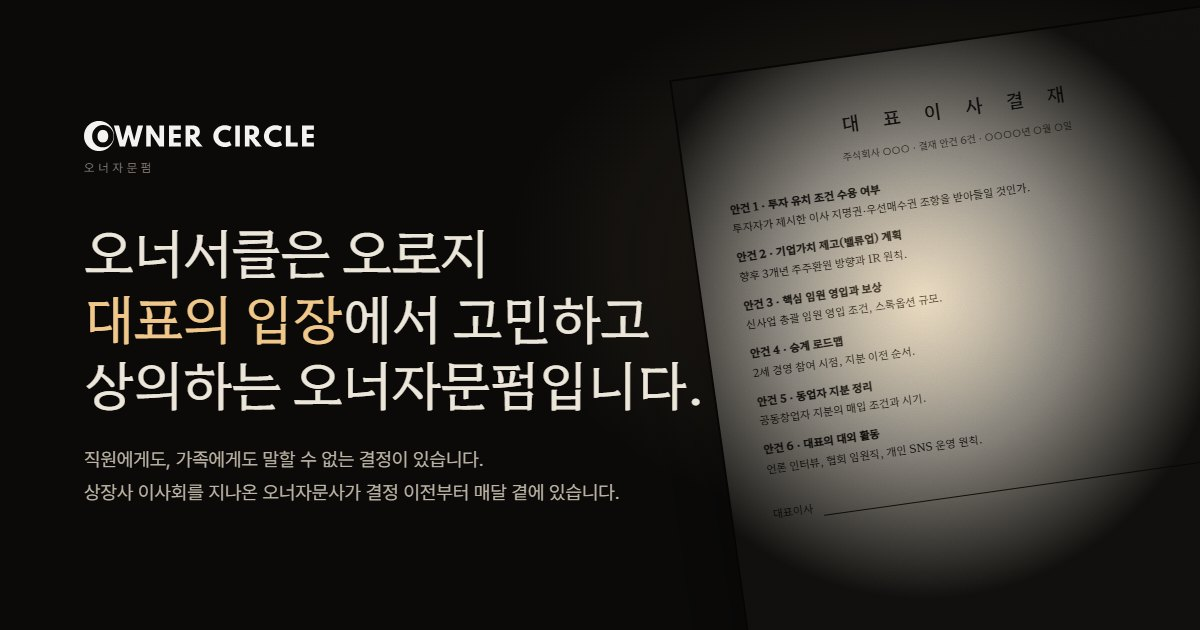
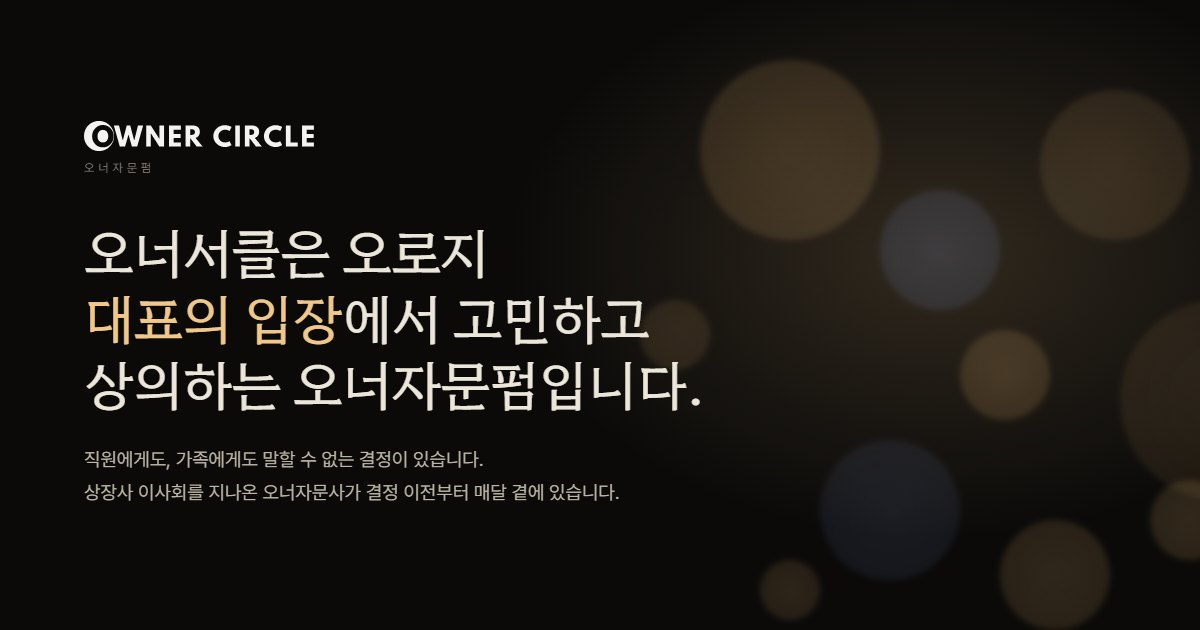
Hero: night-window bokeh instead of paper prop; OG updated

Changed region(s): [[0.5242, 0.0603, 1.0, 0.9349], [0.8325, 0.8746, 0.925, 0.9952], [0.6475, 0.9048, 0.6783, 0.9651]]

diff --git a/js/cine.js b/js/cine.js
@@ -71,6 +71,53 @@
   /* ---- 등불이 스크롤을 따라 천천히 흐른다 ---- */
   gsap.to('.lamp', { yPercent: 40, xPercent: -28, ease: 'none', scrollTrigger: { trigger: document.body, start: 'top top', end: 'bottom bottom', scrub: 1.2 } });
 
+  /* ---- 히어로: 밤의 사무실 창. 초점 나간 도시 불빛이 흐르고, 등불 빛 속에 먼지가 떠다닌다 ---- */
+  (() => {
+    const cv = document.getElementById('bokeh'); if (!cv || reduce) return;
+    const ctx = cv.getContext('2d'); const dpr = Math.min(window.devicePixelRatio || 1, 1.5);
+    let w = 0, h = 0, lights = [], motes = [];
+    const R = (a, b) => a + Math.random() * (b - a);
+    const size = () => {
+      const r = cv.parentElement.getBoundingClientRect(); w = r.width; h = r.height;
+      cv.width = Math.round(w * dpr); cv.height = Math.round(h * dpr); cv.style.width = w + 'px'; cv.style.height = h + 'px';
+      ctx.setTransform(dpr, 0, 0, dpr, 0, 0);
+      const n = w < 700 ? 12 : 20;
+      lights = Array.from({ length: n }, (_, i) => ({
+        x: R(w * .45, w * 1.05), y: R(h * .05, h * .95), r: R(w < 700 ? 18 : 26, w < 700 ? 54 : 96),
+        warm: Math.random() < .72, a: R(.05, .16), ph: R(0, 6.28), sp: R(.08, .22), dx: R(-.04, .04), dy: R(-.03, .03)
+      }));
+      motes = Array.from({ length: w < 700 ? 40 : 90 }, () => ({ x: R(0, w), y: R(0, h), r: R(.5, 1.6), a: R(.15, .5), vy: R(-.06, -.02), vx: R(-.03, .03), ph: R(0, 6.28) }));
+    };
+    size(); if ('ResizeObserver' in window) new ResizeObserver(size).observe(cv.parentElement);
+    let on = true; if ('IntersectionObserver' in window) new IntersectionObserver(e => { on = e[0].isIntersecting; }).observe(cv);
+    let last = performance.now();
+    const draw = (now) => {
+      requestAnimationFrame(draw); if (!on) return;
+      const dt = Math.min(50, now - last); last = now; const s = now / 1000;
+      ctx.clearRect(0, 0, w, h);
+      ctx.globalCompositeOperation = 'lighter';
+      for (const L of lights) {
+        L.x += L.dx * dt * .06; L.y += L.dy * dt * .06;
+        if (L.x < w * .3) L.dx = Math.abs(L.dx); if (L.x > w * 1.1) L.dx = -Math.abs(L.dx);
+        if (L.y < -L.r) L.dy = Math.abs(L.dy); if (L.y > h + L.r) L.dy = -Math.abs(L.dy);
+        const a = L.a * (.75 + .25 * Math.sin(L.ph + s * L.sp));
+        const g = ctx.createRadialGradient(L.x, L.y, 0, L.x, L.y, L.r);
+        const c = L.warm ? '255,196,120' : '150,178,255';
+        g.addColorStop(0, 'rgba(' + c + ',' + (a * 1.15).toFixed(3) + ')');
+        g.addColorStop(.72, 'rgba(' + c + ',' + (a * .85).toFixed(3) + ')');
+        g.addColorStop(1, 'rgba(' + c + ',0)');
+        ctx.fillStyle = g; ctx.beginPath(); ctx.arc(L.x, L.y, L.r, 0, Math.PI * 2); ctx.fill();
+      }
+      for (const m of motes) {
+        m.x += m.vx * dt; m.y += m.vy * dt; if (m.y < -4) { m.y = h + 4; m.x = R(0, w); } if (m.x < -4) m.x = w + 4; if (m.x > w + 4) m.x = -4;
+        const a = m.a * (.5 + .5 * Math.sin(m.ph + s * .9));
+        ctx.fillStyle = 'rgba(255,232,196,' + a.toFixed(3) + ')'; ctx.beginPath(); ctx.arc(m.x, m.y, m.r, 0, Math.PI * 2); ctx.fill();
+      }
+      ctx.globalCompositeOperation = 'source-over';
+    };
+    requestAnimationFrame(draw);
+  })();
+
   /* ---- BLACK 카드: 아주 작은 다이아몬드 플레이크가 제각각 반짝인다 ---- */
   (() => {
     const blk = document.querySelector('.plan--blk');

diff --git a/index.html b/index.html
@@ -18,7 +18,7 @@
 <link rel="preconnect" href="https://fonts.gstatic.com" crossorigin>
 <link href="https://fonts.googleapis.com/css2?family=Hahmlet:wght@300;400;500&display=swap" rel="stylesheet">
 <link rel="stylesheet" href="https://cdn.jsdelivr.net/gh/orioncactus/pretendard@v1.3.9/dist/web/static/pretendard.css">
-<link rel="stylesheet" href="css/cine.css?v=202609120556">
+<link rel="stylesheet" href="css/cine.css?v=202609162050">
 <script>document.documentElement.classList.add('js');</script>
 </head>
 <body>
@@ -69,23 +69,7 @@
 
   <!-- ============ 0 · 오프닝 ============ -->
   <section class="ch ch--open" id="open">
-    <div class="desk" aria-hidden="true">
-      <div class="contract" id="contract">
-        <div class="contract__paper" id="contractPaper">
-          <p class="contract__title">대 표 이 사 결 재</p>
-          <p class="contract__meta">주식회사 ○○○ · 결재 안건 6건 · ○○○○년 ○월 ○일</p>
-          <ol class="contract__clauses">
-            <li><b>안건 1 · 투자 유치 조건 수용 여부</b> 투자자가 제시한 이사 지명권·우선매수권·동반매도청구권 조항을 받아들일 것인가.</li>
-            <li><b>안건 2 · 기업가치 제고(밸류업) 계획</b> 향후 3개년 주주환원 방향, IR 원칙, 시장과의 커뮤니케이션 기조.</li>
-            <li><b>안건 3 · 핵심 임원 영입과 보상</b> 신사업 총괄 임원 영입 조건, 스톡옵션 부여 규모, 기존 임원과의 형평.</li>
-            <li><b>안건 4 · 승계 로드맵</b> 2세 경영 참여 시점, 지분 이전 순서, 이사회 구성 변경안.</li>
-            <li><b>안건 5 · 동업자 지분 정리</b> 공동창업자 보유 지분의 매입 조건과 시기, 퇴임 이후의 역할.</li>
-            <li><b>안건 6 · 대표의 대외 활동</b> 언론 인터뷰 응답 여부, 협회 임원직 수락, 대표 개인 SNS 운영 원칙.</li>
-          </ol>
-          <div class="contract__sign"><span>대표이사</span><span class="line"></span><span>(인)</span></div>
-        </div>
-      </div>
-    </div>
+    <div class="desk" aria-hidden="true"><canvas class="bokeh" id="bokeh"></canvas></div>
     <div class="wrap open__hero">
       <p class="eyebrow">OWNER ADVISORY · 오너자문펌</p>
       <h1 class="h-xl h-xl--long">오너서클은 오로지<br><em class="acc">대표의 입장</em>에서 고민하고<br>상의하는 오너자문펌입니다.</h1>
@@ -389,7 +373,7 @@
 <script src="https://cdnjs.cloudflare.com/ajax/libs/three.js/r128/three.min.js"></script>
 <script src="https://cdnjs.cloudflare.com/ajax/libs/gsap/3.12.5/gsap.min.js"></script>
 <script src="https://cdnjs.cloudflare.com/ajax/libs/gsap/3.12.5/ScrollTrigger.min.js"></script>
-<script src="js/scene.js?v=202609120555"></script>
-<script src="js/cine.js?v=202609120555"></script>
+<script src="js/scene.js?v=202609162050"></script>
+<script src="js/cine.js?v=202609162050"></script>
 </body>
 </html>

diff --git a/recruit.html b/recruit.html
@@ -18,7 +18,7 @@
 <link rel="preconnect" href="https://fonts.gstatic.com" crossorigin>
 <link href="https://fonts.googleapis.com/css2?family=Hahmlet:wght@300;400;500&display=swap" rel="stylesheet">
 <link rel="stylesheet" href="https://cdn.jsdelivr.net/gh/orioncactus/pretendard@v1.3.9/dist/web/static/pretendard.css">
-<link rel="stylesheet" href="css/cine.css?v=202609120605">
+<link rel="stylesheet" href="css/cine.css?v=202609162050">
 <script>document.documentElement.classList.add('js');</script>
 </head>
 <body>
@@ -190,6 +190,6 @@
 
 <script src="https://cdnjs.cloudflare.com/ajax/libs/gsap/3.12.5/gsap.min.js"></script>
 <script src="https://cdnjs.cloudflare.com/ajax/libs/gsap/3.12.5/ScrollTrigger.min.js"></script>
-<script src="js/cine.js?v=202609120555"></script>
+<script src="js/cine.js?v=202609162050"></script>
 </body>
 </html>

diff --git a/css/cine.css b/css/cine.css
@@ -760,3 +760,7 @@ h1,h2,h3{ font-family:var(--serif); font-weight:400; color:var(--ink); }
 .profile__name{ margin:0; }
 .profile__lead{ max-width:760px; }
 @media (max-width:760px){ .profile__head{ gap:16px; } .profile__mark{ width:76px; } .profile__name{ font-size:26px; } }
+
+/* 히어로 보케 */
+.bokeh{ position:absolute; inset:0; width:100%; height:100%; filter:blur(2px); }
+@media (max-width:900px){ .bokeh{ filter:blur(1.5px); } }
